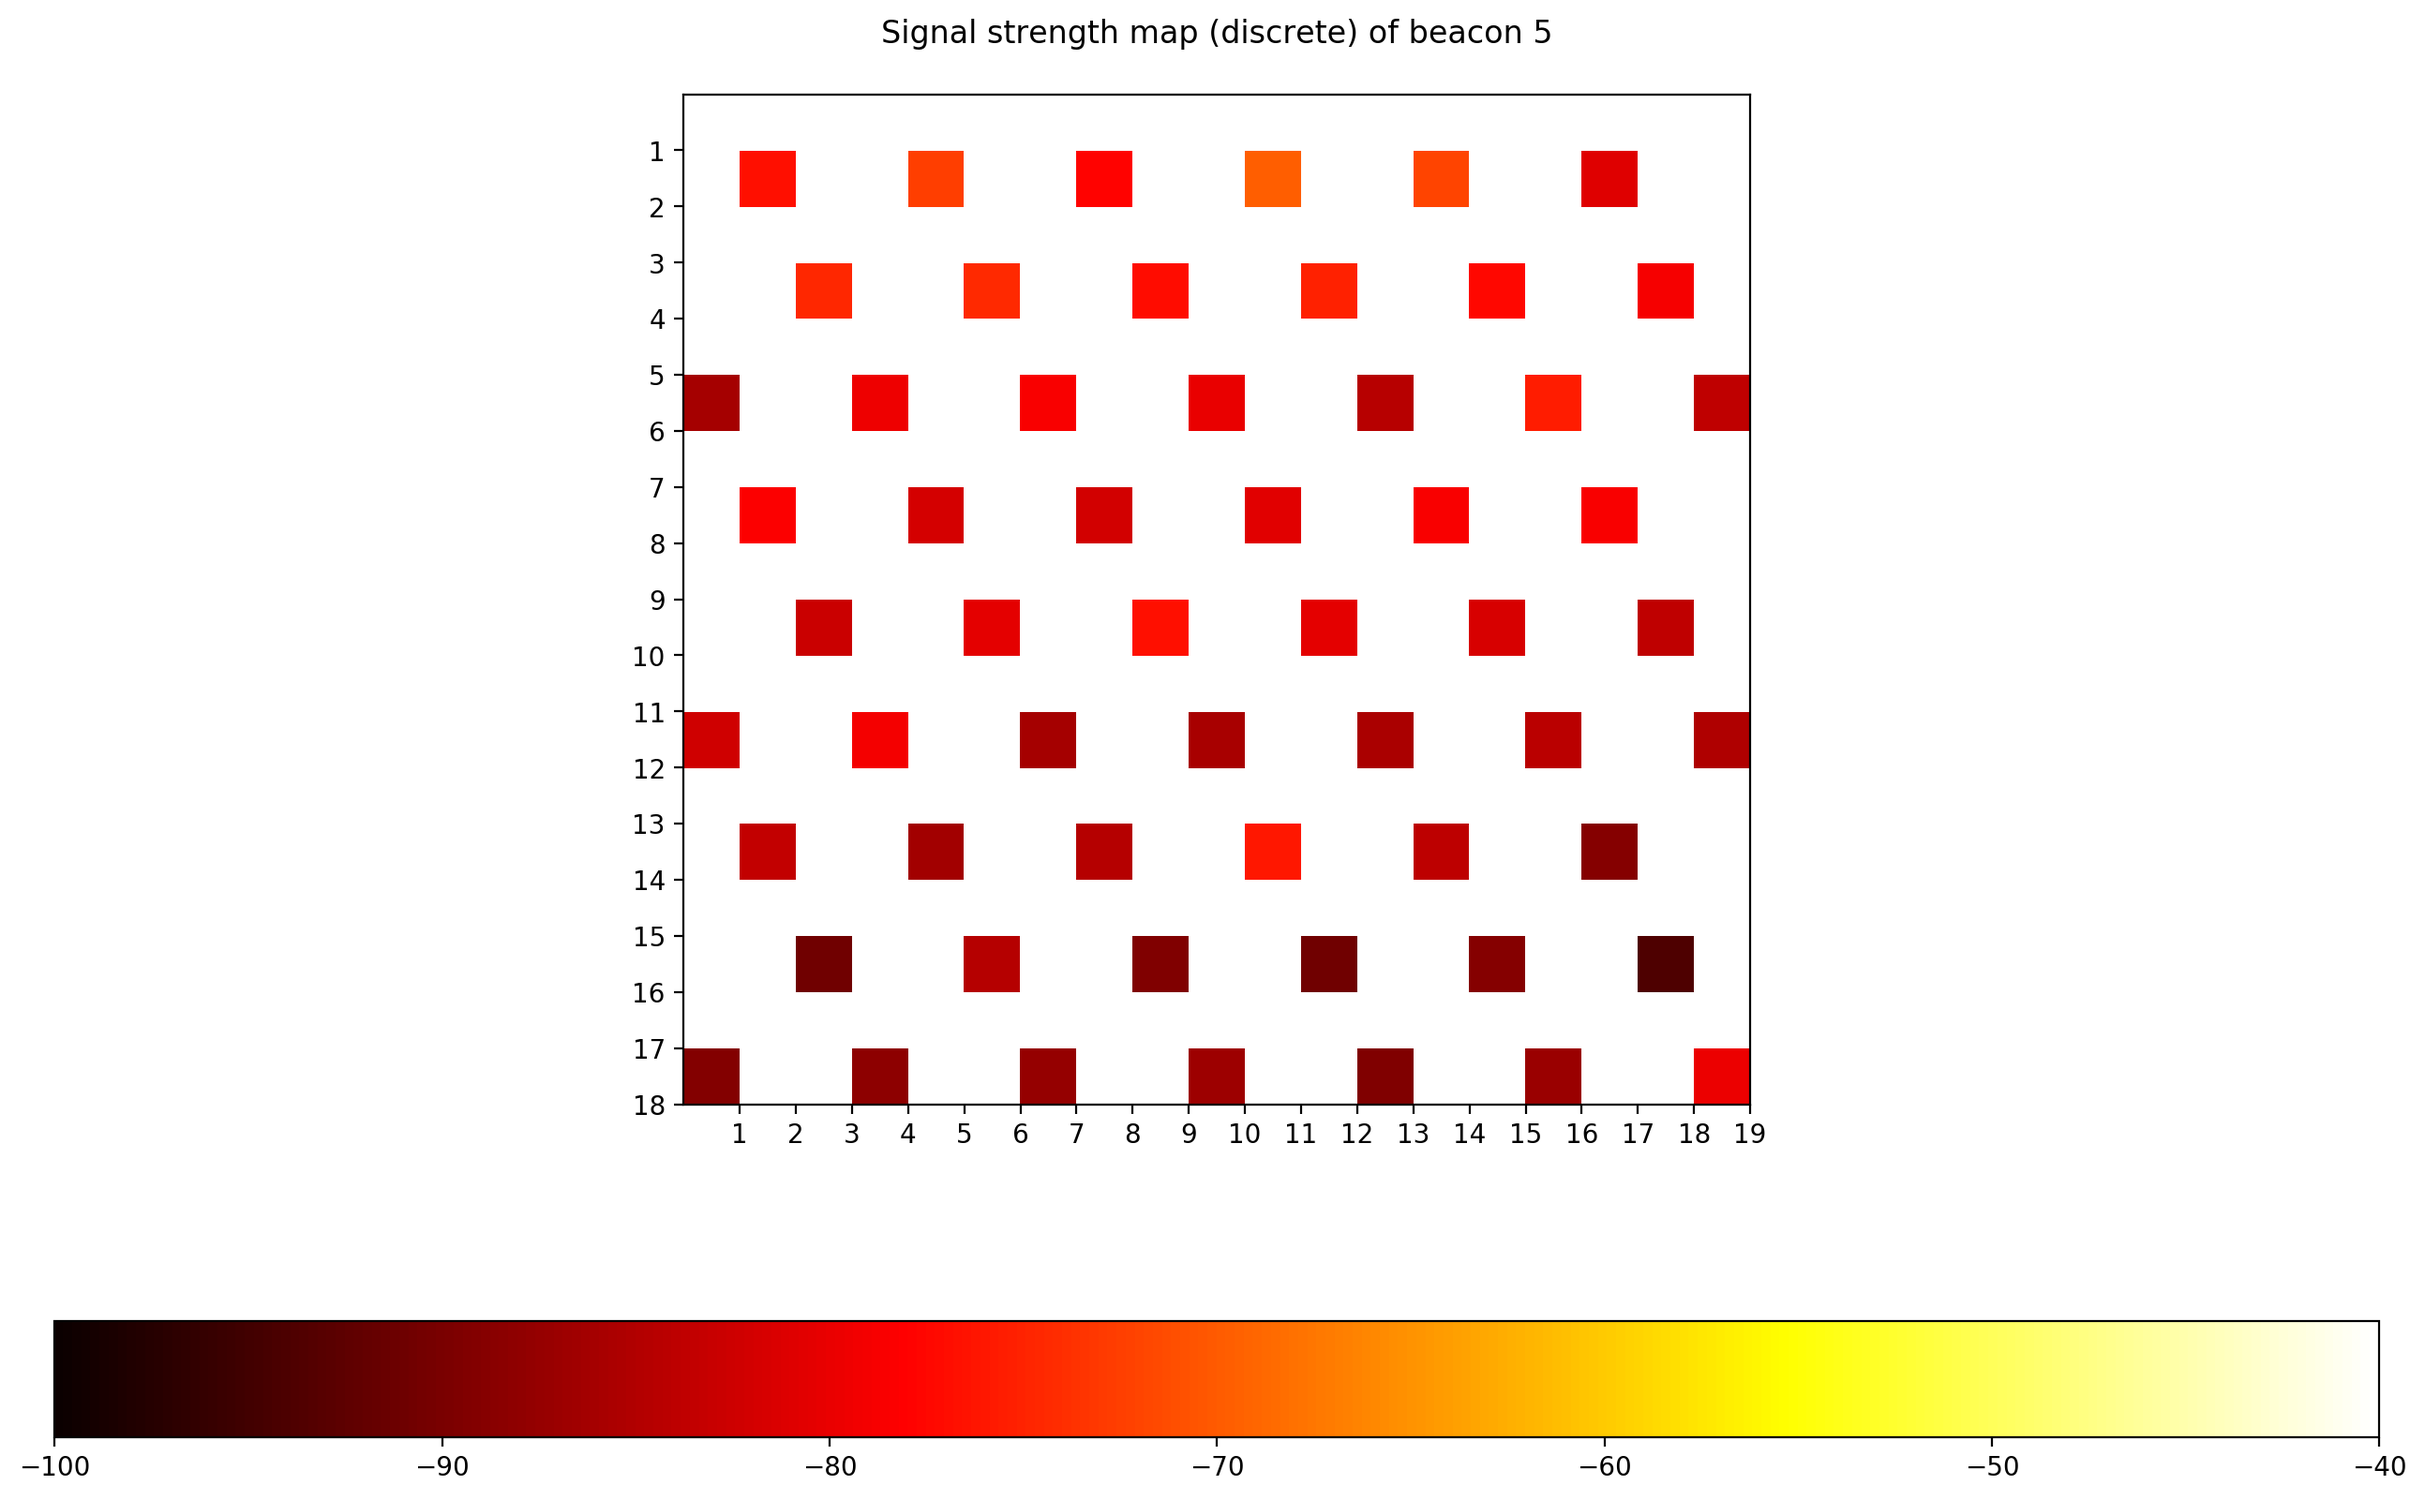
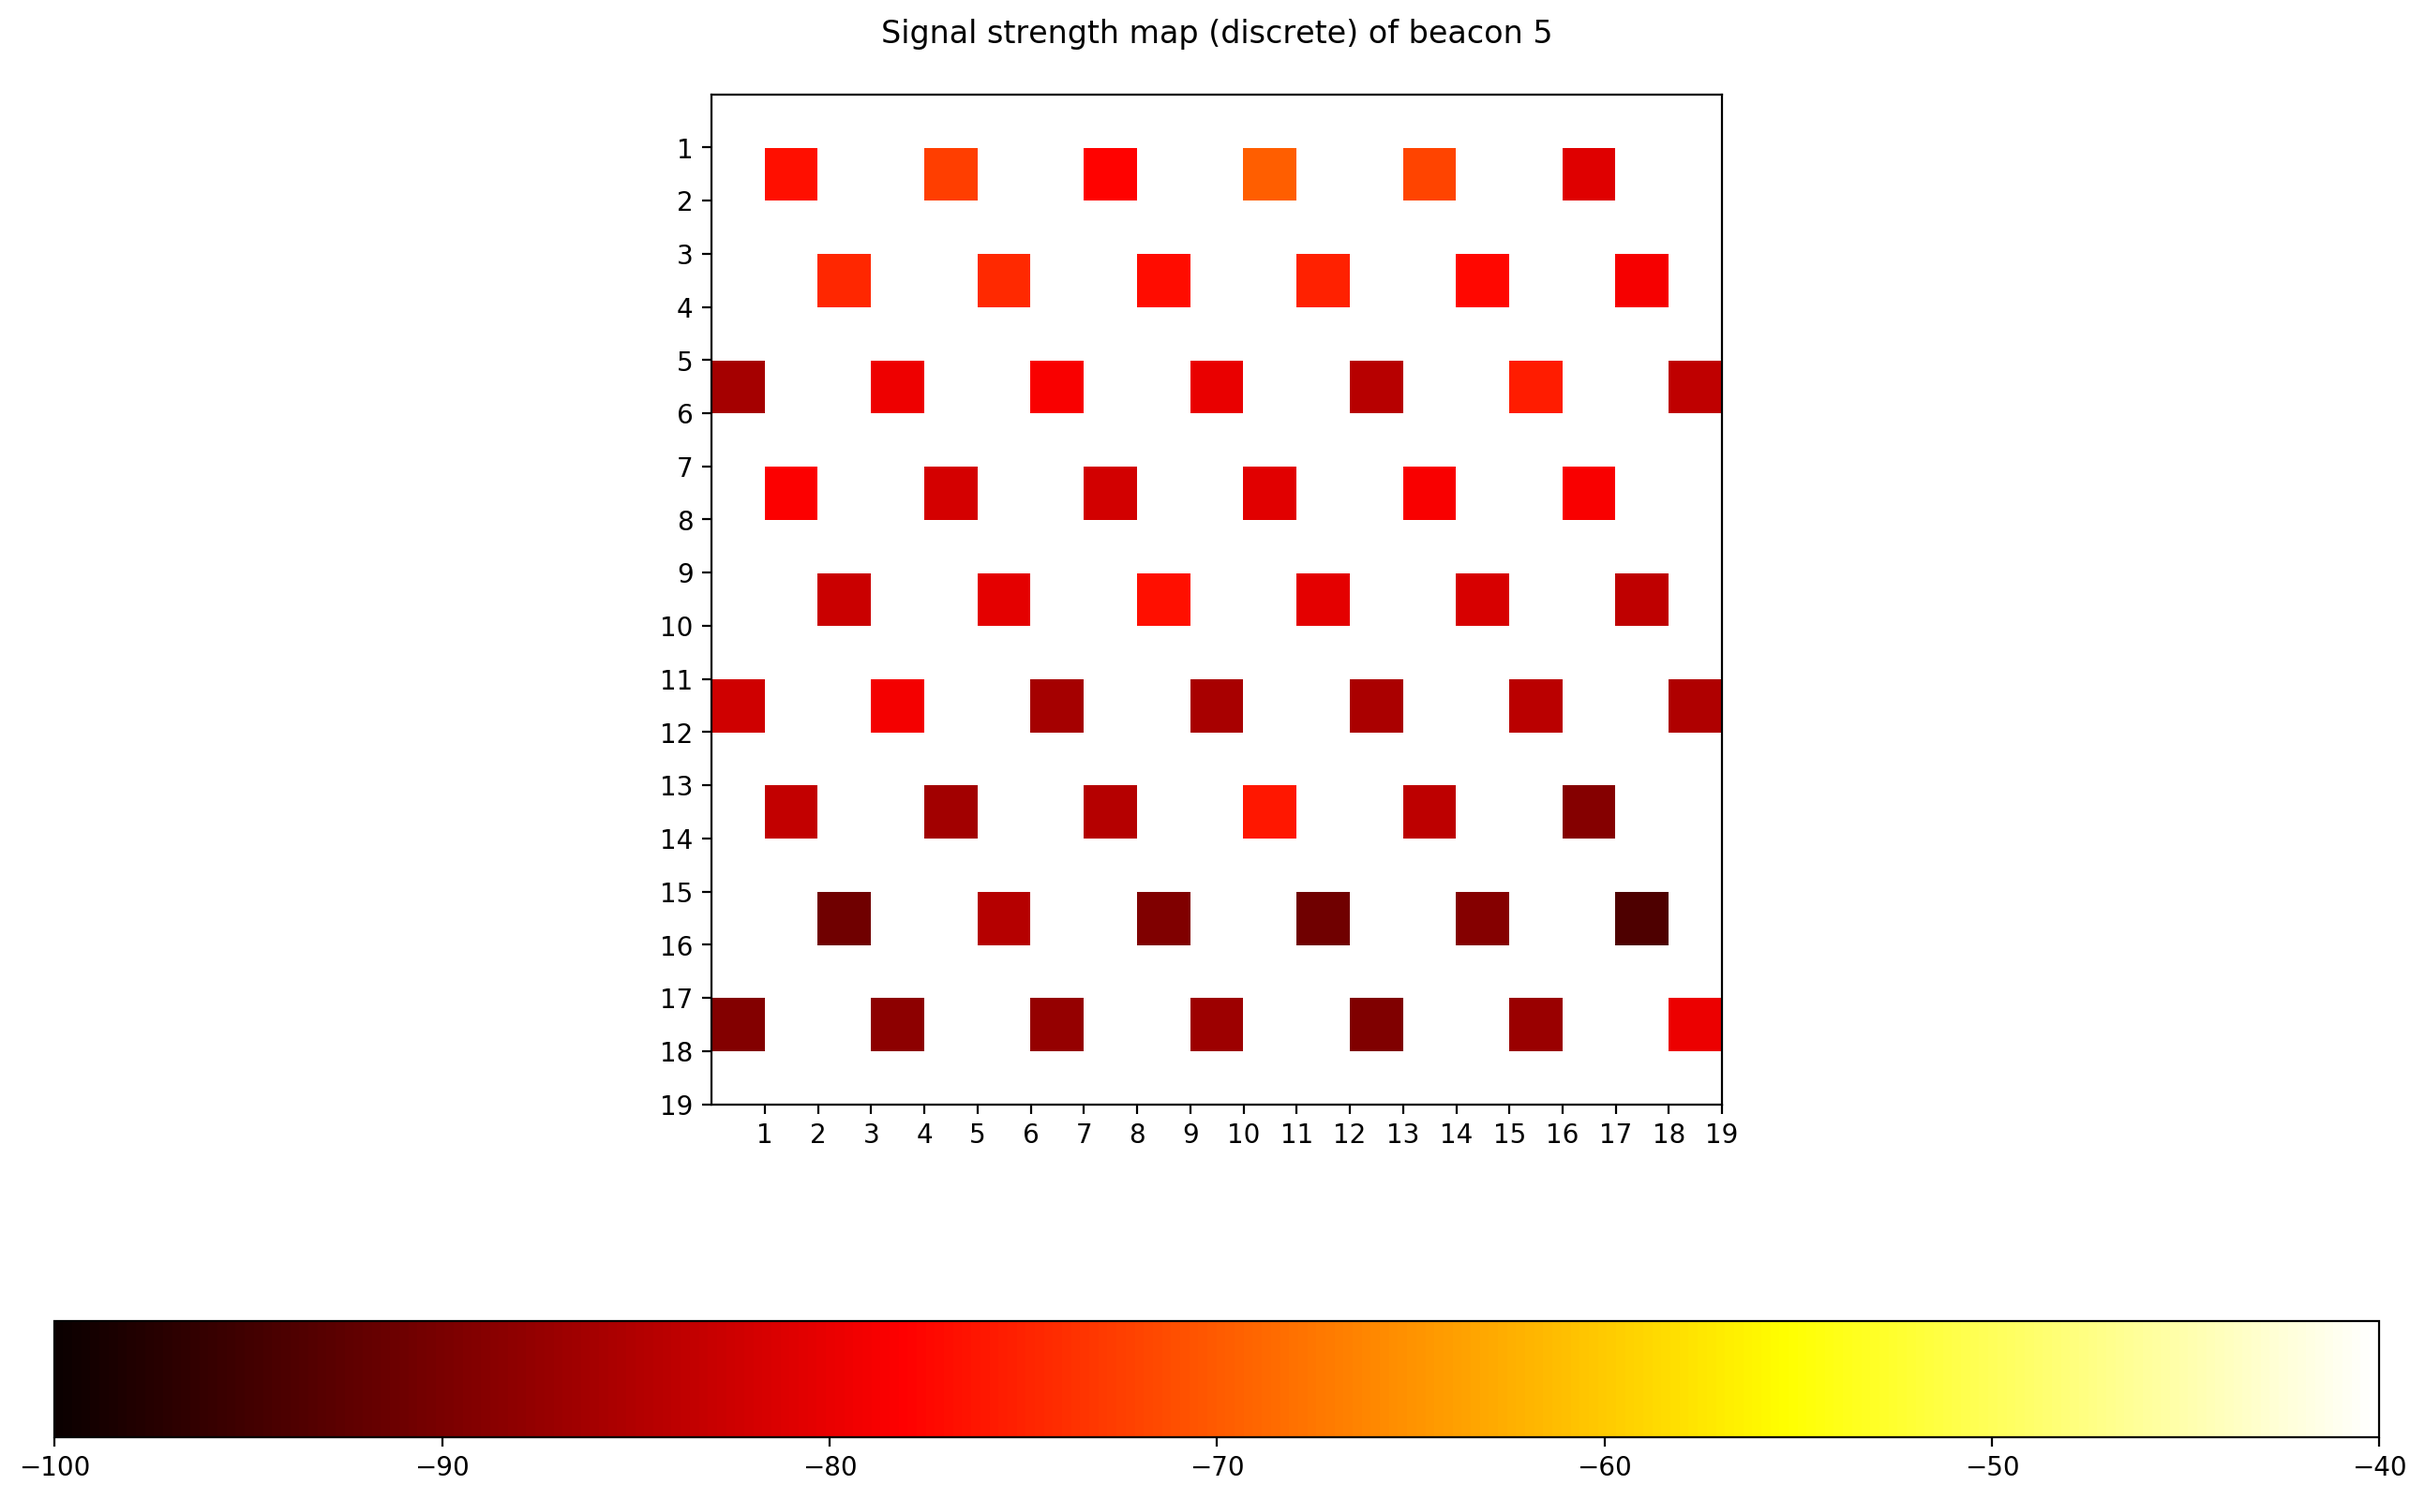
12may21-updated-rssi-map-graph-cc-lab

diff --git a/BTP/CC Lab/rssi_map_graph.py b/BTP/CC Lab/rssi_map_graph.py
@@ -15,7 +15,7 @@ if not(os.path.isdir(save_path)) :
 	os.mkdir(save_path)
 
 noOfBeacons = 10
-noOfTilesX = 18
+noOfTilesX = 19
 noOfTilesY = 19
 beacon_data = {}
 
